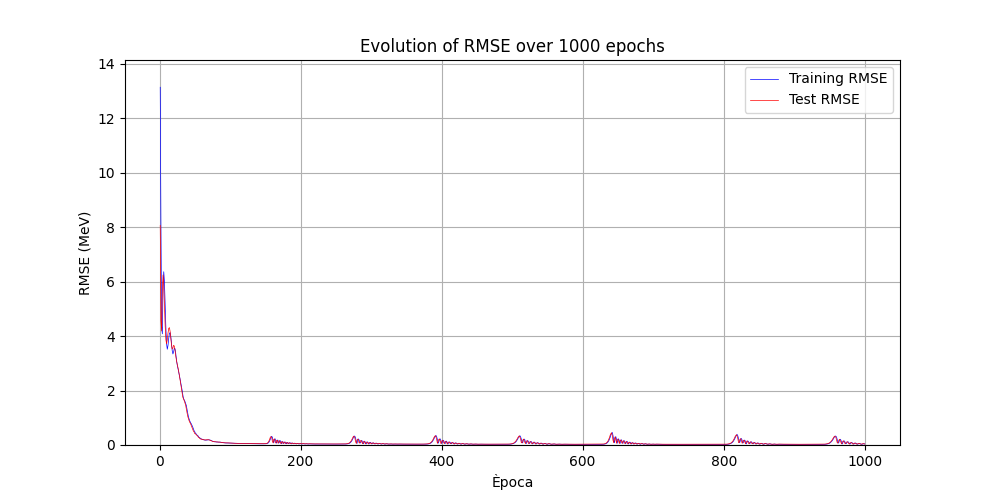
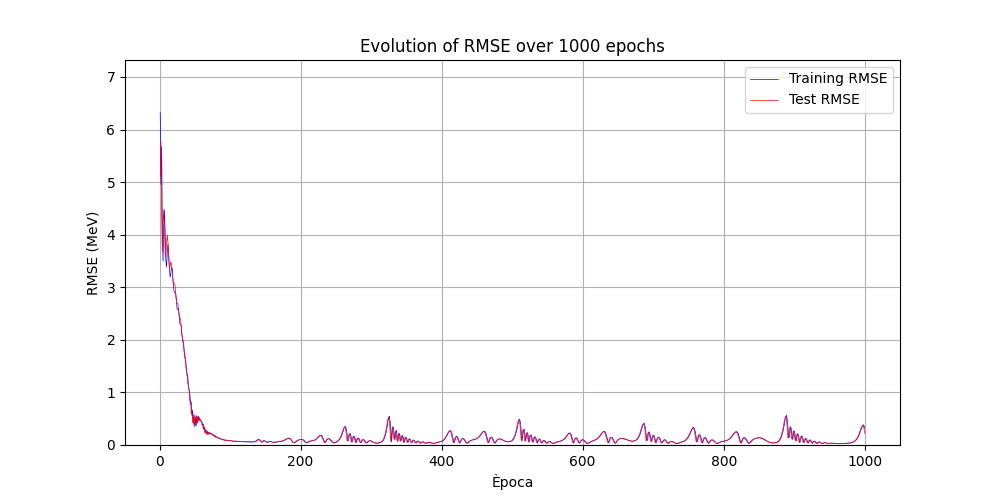
Best model added

diff --git a/data_extraction.py b/data_extraction.py
@@ -32,7 +32,8 @@ def process_file(filename, header, widths, columns, column_names, year):
     )
     df = df.replace({'#': ''}, regex=True) 
     df['Z'] = df['Z'].astype(int) 
-    df['A'] = df['A'].astype(int) 
+    df['A'] = df['A'].astype(int)
+    df = df[(df['N'] >= 8) & (df['N'] < 180) & (df['Z'] >= 8) & (df['Z'] < 120)] # Restrictions for our study case 
     df['bind_ene'] = df['bind_ene'].astype(float)/1000
     df['bind_ene_total'] = df['bind_ene']*df['A']
 
@@ -57,8 +58,6 @@ def process_file(filename, header, widths, columns, column_names, year):
     df['bind_ene_teo_total'] = df['bind_ene_teo']*df['A']
     df['Diff_bind_ene'] = df['bind_ene'] - df['bind_ene_teo']
 
-    df = df[(df['N'] >= 8) & (df['N'] < 180) & (df['Z'] >= 8) & (df['Z'] < 120)] # Restrictions for our study case
-
     df.to_csv(f'data/mass{year}_cleaned.csv', sep=';', index=False)
     return df
 
@@ -82,9 +81,7 @@ df2016 = process_file('data/mass2016.txt', header_2016, widths_2016, columns_201
 print("AME2016 dataset: \n", df2016.head(), "\n")
 
 rmse_2016 = np.sqrt(np.mean(df2016['Diff_bind_ene'] ** 2))
-print('RMSE liquid droplet model (2016): ', rmse_2016)
-rmse_2020 = np.sqrt(np.mean(df2020['Diff_bind_ene'] ** 2))
-print('RMSE liquid droplet model (2020): ', rmse_2020)
+print('RMSE liquid droplet model (2016) binding energy per nucleon: ', rmse_2016)
 
 
 #Plots of AME2020 dataset:

diff --git a/CNN-I3.py b/CNN-I3.py
@@ -87,6 +87,9 @@ print(f'Total number of parameters:', sum(p.numel() for p in model.parameters() 
 
 train_loss_rmse_values = []
 test_loss_rmse_values = []
+best_test_rmse = float('inf')
+best_model_state = None
+best_epoch = 0
 
 num_epochs = 1000 
 for epoch in range(num_epochs):
@@ -107,8 +110,18 @@ for epoch in range(num_epochs):
         test_loss_rmse = torch.sqrt(test_loss_mse)
         test_loss_rmse_values.append(test_loss_rmse.item())
     print(f'Epoch [{epoch+1}/{num_epochs}], Test Loss (RMSE): {test_loss_rmse.item()}')
-    
-torch.save(model.state_dict(), f'cnn_i3_model_{num_epochs}_epochs.pt')
+
+    if test_loss_rmse.item() < best_test_rmse:
+        best_test_rmse = test_loss_rmse.item()
+        best_model_state = model.state_dict()
+        best_epoch = epoch + 1
+
+if best_model_state is not None:
+    torch.save(best_model_state, f'cnn_i3_best_model.pt')
+    print(f'Best RMSE: {best_test_rmse:.4f}MeV found in epoch {best_epoch}')
+else:
+    torch.save(model.state_dict(), f'cnn_i3_model_{num_epochs}_epochs.pt')
+
 
 plt.figure(figsize=(10, 5))
 plt.plot(range(1, num_epochs + 1), train_loss_rmse_values, label='Training RMSE', color='blue', linewidth=0.5)
